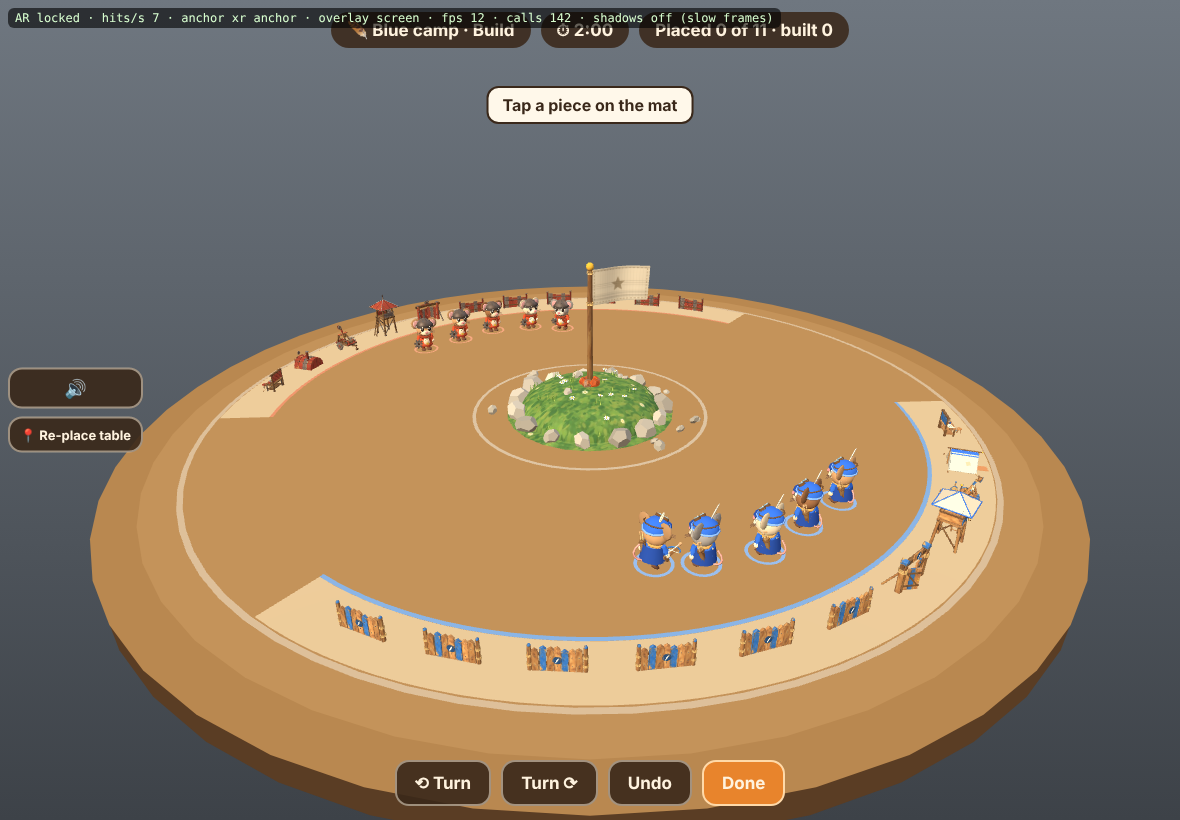
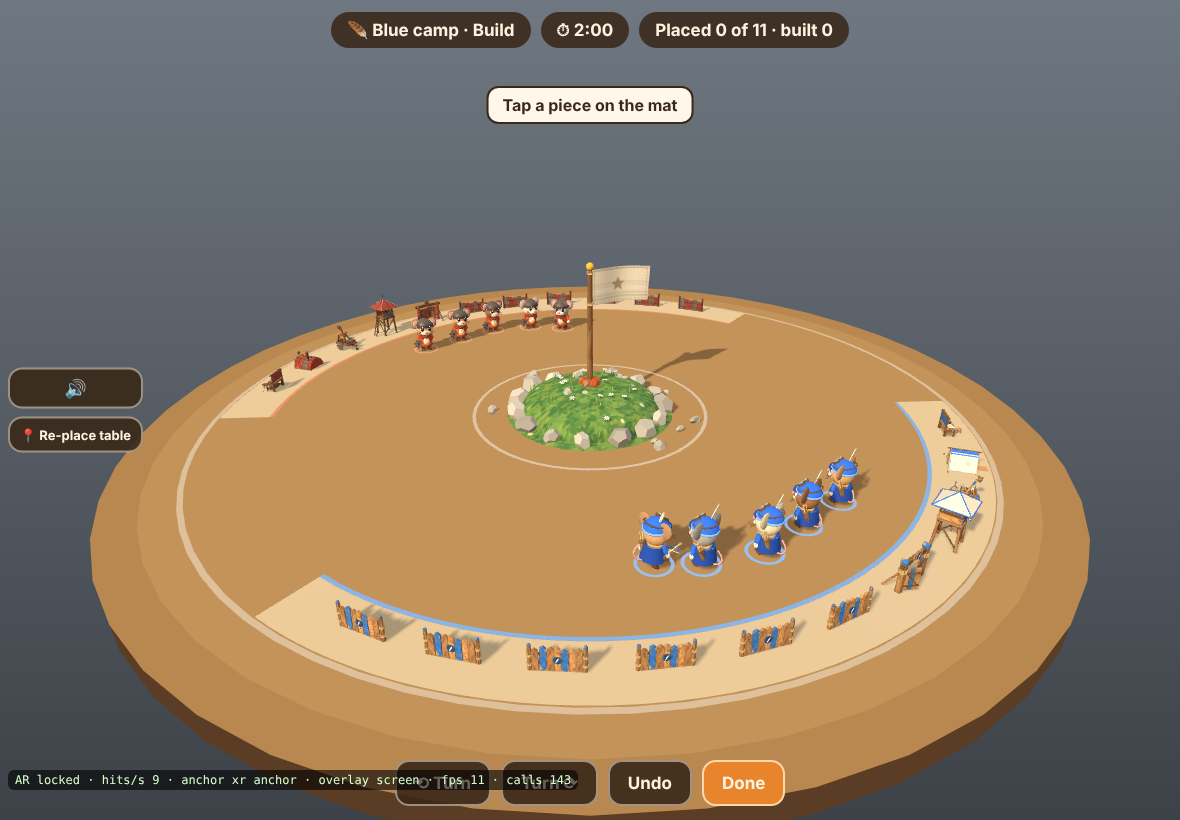
AR notes; bot camp fitted to a card layout's zone; camera behind your own camp; Table mode panel at the edge nearest the far camp
Claude-Session: https://claude.ai/code/session_0171oc5wTsPoimaja7RRfUcs

diff --git a/games/sofa-siege/game.js b/games/sofa-siege/game.js
@@ -66,8 +66,9 @@ function check(side,kind,x,z,rot){
   var hl=hillAt(),L=SG.layout,box={kind:kind,x:x,z:z,rot:rot};if(boxDist(box,hl.x,hl.z)<ZONE.rMin)return {ok:false,code:'hill',text:REASON.hill};
   if(L.mound&&boxDist(box,L.mound.x,L.mound.z)<L.mound.r+.06)return {ok:false,code:'hill',text:'Not on the hill mound'};
   var cs=corners(kind,x,z,rot),i;
-  for(i=0;i<4;i++){var lc=toCamp(side,cs[i][0],cs[i][1]),r=Math.sqrt(lc[0]*lc[0]+lc[1]*lc[1]),a=Math.abs(Math.atan2(lc[0],lc[1]));if(r>ZONE.rMax||a>ZONE.half)return {ok:false,code:'third',text:REASON.third};
-    if(L.custom&&(dist(cs[i][0],cs[i][1],0,0)>2.78||campAt(cs[i][0],cs[i][1])!==side))return {ok:false,code:'third',text:REASON.third};}
+  for(i=0;i<4;i++){var lc=toCamp(side,cs[i][0],cs[i][1]),r=Math.sqrt(lc[0]*lc[0]+lc[1]*lc[1]),a=Math.abs(Math.atan2(lc[0],lc[1]));if(!L.custom&&(r>ZONE.rMax||a>ZONE.half))return {ok:false,code:'third',text:REASON.third};
+    /* on a table laid out by cards a camp's zone is the ground round its own base: within 2.15 units of it, on the table, and nearer to it than to the other base */
+    if(L.custom&&(dist(cs[i][0],cs[i][1],0,0)>2.78||campAt(cs[i][0],cs[i][1])!==side||dist(cs[i][0],cs[i][1],baseOf(side).x,baseOf(side).z)>2.15))return {ok:false,code:'third',text:REASON.third};}
   for(i=0;i<SG.pieces.length;i++)if(overlap({kind:kind,x:x,z:z,rot:rot},SG.pieces[i]))return {ok:false,code:'overlap',text:REASON.overlap};
   return {ok:true,code:'',text:''};}
 SG.check=function(kind,x,z,rot,side){return check(side||0,kind,x,z,rot);};
@@ -143,7 +144,7 @@ SG.start=function(team,opts){
       var dl=dist(o[0],o[1],w[0],w[1])||1,pk=[w[0]+(o[0]-w[0])/dl*.39,w[1]+(o[1]-w[1])/dl*.39];side.kit.push({kind:kind,a:a,x:w[0],z:w[1],px:pk[0],pz:pk[1],used:false,picked:false});});
     for(var i=0;i<5;i++){var h=w2(s,(i-2)*.42,2.3-Math.abs(i-2)*.1);SG.mice.push({side:s,i:i,state:'idle',x:h[0],z:h[1],rot:phiOf(s)+PI,tx:h[0],tz:h[1],hx:h[0],hz:h[1],job:0,part:-1,t:0,wait:.5+i*.4,speed:0,
       slack:.3,q:0,asked:-9,path:null,pi:0,pver:-1,ptx:0,ptz:0,cd:1+i*.5,act:0,moved:0,goal:false,daze:false});}}
-  SG.kit=SG.sides[0].kit;viewStart();ui();};
+  SG.kit=SG.sides[0].kit;fitPreset(0);fitPreset(1);viewStart();ui();};
 SG.auto=function(side,level){var s=SG.sides[side];if(!s)return;s.bot=true;s.human=false;if(LEVELS[level])s.level=level;s.sel=-1;ui();};
 SG.reset=function(){viewClear();SG.phase='start';SG.pieces=[];SG.mice=[];SG.marbles=[];SG.corks=[];SG.pops=[];SG.sides=[];SG.kit=[];ui();};
 function say(code,text,bad,s){var side=SG.sides[s||0];if(side)side.msg={code:code,text:text,t:bad?2.2:2.6,bad:!!bad};}
@@ -180,7 +181,13 @@ SG.undo=function(s){
 /* one player: Done ends the build step. Two players: each says ready, and the build ends when both have. */
 SG.done=function(s){if(SG.phase!=='build')return;if(SG.mode!=='table'){finishBuild();return;}var side=SG.sides[s||0];side.ready=!side.ready;side.sel=-1;say('ready',side.ready?'Ready! Waiting for the other camp':'Not ready yet',false,s||0);ui();if(SG.sides[0].ready&&SG.sides[1].ready)finishBuild();};
 /* a tidy camp from a preset; used by the bot, by demos and by tests */
-function layoutSpot(s,L,i){var q=LAYOUTS[L][i],w=w2(s,Math.sin(q[1])*q[0],Math.cos(q[1])*q[0]);return [w[0],w[1],q[1]+q[2]+phiOf(s)];}
+function layoutSpot(s,L,i){var q=LAYOUTS[L][i],f=SG.sides[s].fit||{k:1,da:0,sh:0},a=q[1]+f.da,d=q[0]*f.k,w=w2(s,Math.sin(a)*d,Math.cos(a)*d-f.sh);return [w[0],w[1],a+q[2]+phiOf(s)];}
+/* On an unusual table the preset camp is turned and squeezed a little until as many of its pieces as possible fit the camp's zone, so the camp keeps its shape. */
+function fitPreset(s){var side=SG.sides[s],best=null,bn=-1,keep=SG.pieces;side.fit=null;if(!SG.layout.custom)return;
+  [0,.2,.4,.6,.8,-.2].forEach(function(sh){[1,.9,.8].forEach(function(k){[0,.12,-.12,.24,-.24,.36,-.36,.5,-.5].forEach(function(da){side.fit={k:k,da:da,sh:sh};SG.pieces=keep.slice();var n=0;
+    for(var i=0;i<KIT.length;i++){var q=layoutSpot(s,side.layout,i);if(check(s,KIT[i],q[0],q[1],q[2]).ok){n+=KIT[i]==='lobber'?2:1;SG.pieces.push({kind:KIT[i],x:q[0],z:q[1],rot:q[2],side:s});}}
+    if(n>bn){bn=n;best={k:k,da:da,sh:sh};}});});});
+  SG.pieces=keep;side.fit=best;}
 function botPlace(s,i){var side=SG.sides[s],q=layoutSpot(s,side.layout,i),r=place(s,i,q[0],q[1],q[2]);
   var wide=SG.layout.custom,nt=wide?400:60;   /* on an unusual table the preset spot may not fit: look anywhere in the camp's zone */
   for(var t=0;t<nt&&!r.ok;t++){var a=(rand()-.5)*2*(ZONE.half-(wide?.05:.25)),d=wide?.5+rand()*2.2:1.3+rand()*1.2,w=w2(s,Math.sin(a)*d,Math.cos(a)*d);r=place(s,i,w[0],w[1],a+PI+phiOf(s)+(wide&&t>200?(rand()-.5)*2:0));}
@@ -427,7 +434,7 @@ SG.step=function(dt){SG.acc+=dt;var n=0;while(SG.acc>=STEP-1e-9){tick(STEP);SG.a
 /* true if a mouse stands inside a wall or gate that still blocks it (used by the tests) */
 SG.inWall=function(){var bad=0;SG.mice.forEach(function(m){SG.pieces.forEach(function(p){if((p.kind!=='wall'&&p.kind!=='gate')||!p.built||!blocks(p))return;if(solidAt(p,m.side,m.x,m.z,0))bad++;});});return bad;};
 SG.debug={knock:function(pieceId,partId){var p=pieceById(pieceId);if(!p)return false;for(var i=0;i<p.ps.length;i++)if(p.ps[i].id===partId){var r=knock(p,i,p.side?1:-1,p.side?-1:1,'debug');fixGrid();return r;}return false;},
-  dizzy:function(s,i){var m=SG.mice[s*5+i];return m?dizzy(m):false;},piece:pieceById,blocks:function(id){return blocks(pieceById(id));},crewSpot:function(s){var l=lobberOf(s);return l?crewSpot(l):null;},crewReady:crewReady,isOpen:isOpen};
+  dizzy:function(s,i){var m=SG.mice[s*5+i];return m?dizzy(m):false;},piece:pieceById,layoutSpot:function(s,i){return layoutSpot(s,SG.sides[s].layout,i);},blocks:function(id){return blocks(pieceById(id));},crewSpot:function(s){var l=lobberOf(s);return l?crewSpot(l):null;},crewReady:crewReady,isOpen:isOpen};
 
 /* ================= sound: small synthesised noises, WebAudio only =================
    Nothing plays until the first tap (iOS needs that). The game never waits for sound, and runs the same without it. */
@@ -464,7 +471,7 @@ function viewStart(){if(!V.on)return;
   V.mats[0].material.color.set(SG.sides[0].team==='red'?0x93381f:0x2a55a8);V.mats[1].material.color.set(SG.sides[1].team==='red'?0x93381f:0x2a55a8);
   hill.userData.sA.set(SS.PAL.red.main);hill.userData.sB.set(SS.PAL.blue.main);SS.setHill(hill,.5);
   var hl=hillAt(),md=SG.layout.mound;hill.position.set(hl.x,0,hl.z);V.mound.visible=!!md;if(md){V.mound.position.set(md.x,0,md.z);V.mound.scale.set(md.r/.36,1,md.r/.36);}
-  for(var s=0;s<2;s++){var o=w2(s,0,0),tidy=dist(o[0],o[1],0,0)<.3;V.matG[s].position.set(o[0],0,o[1]);V.matG[s].rotation.y=phiOf(s);V.matG[s].visible=tidy;GH[s].zoneG.position.set(o[0],0,o[1]);GH[s].zoneG.rotation.y=phiOf(s);
+  for(var s=0;s<2;s++){var o=w2(s,0,0),tidy=dist(o[0],o[1],0,0)<.3;V.matG[s].position.set(o[0],0,o[1]);V.matG[s].rotation.y=phiOf(s);V.matG[s].visible=tidy;GH[s].zoneG.position.set(o[0],0,o[1]);GH[s].zoneG.rotation.y=phiOf(s);GH[s].zoneG.visible=!SG.layout.custom;GH[s].disc.position.set(baseOf(s).x,.005,baseOf(s).z);
     V.pads[s].forEach(function(pd,i){var k=SG.sides[s].kit[i];pd.visible=!tidy;pd.position.set(k.x,.006,k.z);});}}
 function ghostOf(kind,team,m){var g=SS.piece(kind,team);g.scale.setScalar(PS);g.traverse(function(o){if(o.isMesh){o.material=m;o.castShadow=false;o.receiveShadow=false;}});return g;}
 function tint(g,m){g.traverse(function(o){if(o.isMesh)o.material=m;});}
@@ -508,21 +515,21 @@ function syncPieces(){
   for(var r=nr;r<V.rings.length;r++)V.rings[r].visible=false;}
 function syncPops(){var pl=E('pops');if(!pl)return;var seen={},table=SG.mode==='table';V.popEls=V.popEls||{};
   function show(id,cls,text,x,z,y,side,op){seen[id]=1;var el=V.popEls[id];if(!el){el=V.popEls[id]=document.createElement('div');el.className=cls;el.textContent=text;pl.appendChild(el);}
-    var q=SG.screen(x,z,y);el.style.left=q.x+'px';el.style.top=q.y+'px';el.style.opacity=op;el.style.transform=table&&side===1?'translate(-50%,0) rotate(180deg)':'translate(-50%,-100%)';}
+    var q=SG.screen(x,z,y);el.style.left=q.x+'px';el.style.top=q.y+'px';el.style.opacity=op;var eg=table&&side===1?(SG.sides[1].edge||'top'):'';el.style.transform=eg==='top'?'translate(-50%,0) rotate(180deg)':(eg==='left'?'translate(0,-50%) rotate(90deg)':(eg==='right'?'translate(-100%,-50%) rotate(-90deg)':'translate(-50%,-100%)'));}
   SG.pops.forEach(function(q){show(q.id,'pop'+(q.good?' good':'')+(q.text==='?'?' ask':''),q.text,q.x,q.z,q.y+q.t*.35,q.side,q.t>.9?Math.max(0,1-(q.t-.9)/.4):1);});
   /* a hammer over every piece that is being mended, so mending shows even when the mouse is behind it */
   SG.pieces.forEach(function(p){if(!p.built)return;var busy=false;p.ps.forEach(function(q){if(q.mender>=0&&q.st!=='on')busy=true;});if(busy)show('m'+p.id,'pop icon','🔨',p.x,p.z,TALL[p.kind]+.18+.04*Math.sin(SG.clock*6),p.side,1);});
   for(var id in V.popEls)if(!seen[id]){pl.removeChild(V.popEls[id]);delete V.popEls[id];}}
 function syncAll(){
   if(!V.on)return;var i,ph=SG.phase;
-  if(!SG.sides.length){GH.forEach(function(g){g.zone.visible=g.sel.visible=g.ring.visible=g.arc.visible=g.land.visible=g.order.visible=false;if(g.obj)g.obj.visible=false;});for(i=0;i<V.rings.length;i++)V.rings[i].visible=false;return;}
+  if(!SG.sides.length){GH.forEach(function(g){g.zone.visible=g.disc.visible=g.sel.visible=g.ring.visible=g.arc.visible=g.land.visible=g.order.visible=false;if(g.obj)g.obj.visible=false;});for(i=0;i<V.rings.length;i++)V.rings[i].visible=false;return;}
   SG.mice.forEach(function(m,i){var o=V.mice[i];if(!o)return;var st=m.state,pose=POSE[st]||'idle',r2=m.x*m.x+m.z*m.z;
     if(m.act>0&&(st==='hold'||st==='go'||st==='idle'))pose=SG.sides[m.side].team==='blue'?'aim':'hammer';if(m.q>0)pose='idle';
     o.position.set(m.x,hy(m.x,m.z)*(st==='dizzy'?.7:1),m.z);o.rotation.y=m.rot;SS.pose(o,pose,SG.clock*(st==='wander'?.6:1)+i*.37);
     if(pose==='hammer'){var hp=((SG.clock+i*.37)*1.7)%1;if(hp<o.userData.hp)snd('tap');o.userData.hp=hp;}});
   for(var s=0;s<2;s++)SG.sides[s].kit.forEach(function(k,i){var o=V.slots[s][i];if(!o)return;o.visible=!k.picked&&ph==='build'||(!k.used);var sel=i===SG.sides[s].sel;o.position.y=sel?.07+.02*Math.sin(SG.clock*5):.012;o.scale.setScalar(MAT.scale*(k.used&&!k.picked?.8:1));});
   syncPieces();syncPops();
-  SG.sides.forEach(function(side,s){var G=GH[s],showGhost=ph==='build'&&side.sel>=0&&side.human;G.zone.visible=showGhost;G.sel.visible=showGhost;
+  SG.sides.forEach(function(side,s){var G=GH[s],showGhost=ph==='build'&&side.sel>=0&&side.human;G.zone.visible=showGhost;G.disc.visible=showGhost&&SG.layout.custom;G.sel.visible=showGhost;
     if(showGhost){var kind=side.kit[side.sel].kind,g=side.ghost;G.sel.position.set(side.kit[side.sel].x,.012,side.kit[side.sel].z);
       if(G.kind!==kind+side.team){if(G.obj)S.remove(G.obj);G.obj=ghostOf(kind,side.team,GM.ok);S.add(G.obj);G.kind=kind+side.team;G.obj.userData.ok=true;}
       if(G.obj.userData.ok!==g.ok){tint(G.obj,g.ok?GM.ok:GM.bad);G.obj.userData.ok=g.ok;}
@@ -565,7 +572,9 @@ function lineFor(s){var ph=SG.phase,a=SG.sides[s],n=0;SG.pieces.forEach(function
   else if(ph==='fight'&&a.human){var blk=SG.lobberBlock(s);hint=a.tool==='lobber'?({none:'You have no lobber',broken:'The lobber is broken. Mend it first',crew:'The lobber needs a mouse beside it',winding:'Winding the lobber…','':'Drag back and let go to fire'})[blk]:(a.tool==='mend'?'Tap a damaged piece to mend it':(a.order?'':'Tap the hill to send your squad'));}
   var call=SG.callout.t>0&&ph!=='mend';return {text:call?SG.callout.text:(a.msg.t>0?a.msg.text:hint),bad:a.msg.t>0&&a.msg.bad&&!call};}
 function meterText(side){return (side.team==='red'?'⚙ Red ':'🪶 Blue ')+Math.round(side.score);}
-function hudTable(){var ph=SG.phase,fight=ph==='fight'||ph==='mend'||ph==='count';
+/* which screen edge the far player's panel sits on: the one nearest their camp (blue's camp is always at the bottom) */
+function farEdge(){var b=baseOf(0),r=baseOf(1),bn=Math.sqrt(b.x*b.x+b.z*b.z),ux=bn>.2?-b.x/bn:0,uz=bn>.2?-b.z/bn:-1,up=r.x*ux+r.z*uz,right=r.x*(-uz)+r.z*ux;return up>=Math.abs(right)*.8?'top':(right>0?'right':'left');}
+function hudTable(){var ph=SG.phase,fight=ph==='fight'||ph==='mend'||ph==='count',eg=farEdge();if(SG.sides[1].edge!==eg){SG.sides[1].edge=eg;E('pp1').className='pp '+(eg==='top'?'flip':eg);}
   for(var s=0;s<2;s++){var side=SG.sides[s],el=E('pp'+s),ln=lineFor(s),n=0,built=0;SG.pieces.forEach(function(p){if(p.side===s){n++;if(p.built)built++;}});
     var head=ph==='build'?(side.team==='red'?'⚙ Red':'🪶 Blue')+' · ⏱ '+fmt(SG.time)+' · '+n+' of '+KIT.length:meterText(side)+' · '+(ph==='over'?'over':(ph==='mend'?'break ':'R'+SG.round+' ')+fmt(ph==='count'?CONFIG.round:SG.time));
     var key=[ph,head,ln.text,ln.bad,side.tool,side.ready,Math.round(side.score),Math.ceil(SG.time),SG.winner].join('|');if(el.getAttribute('data-k')===key)continue;el.setAttribute('data-k',key);
@@ -622,7 +631,7 @@ function initView(){
     for(var pi=0;pi<KIT.length;pi++){var pd=new THREE.Mesh(V.padGeo||(V.padGeo=new THREE.CircleGeometry(.2,20)),V.padMat||(V.padMat=M(0x8f7044,1)));pd.rotation.x=-PI/2;pd.visible=false;pd.receiveShadow=true;S.add(pd);V.pads[s].push(pd);}}
   V.mound=new THREE.Mesh(new THREE.SphereGeometry(.36,16,6,0,PI*2,0,PI/2),M(0x6f9440,.95));V.mound.scale.y=.5;V.mound.castShadow=true;V.mound.receiveShadow=true;V.mound.visible=false;S.add(V.mound);
   function flat(geo,col,op){var o=new THREE.Mesh(geo,new THREE.MeshBasicMaterial({color:col,transparent:true,opacity:op,depthWrite:false}));o.rotation.x=-PI/2;o.visible=false;S.add(o);return o;}
-  for(s=0;s<2;s++){var G=GH[s];G.zone=flat(new THREE.RingGeometry(.6,ZONE.rMax,48,1,-PI/2-ZONE.half,ZONE.half*2),s?0xffc0a8:0x9fd0ff,.13);G.zone.position.y=.005;G.zoneG=new THREE.Group();S.add(G.zoneG);S.remove(G.zone);G.zoneG.add(G.zone);
+  for(s=0;s<2;s++){var G=GH[s];G.zone=flat(new THREE.RingGeometry(.6,ZONE.rMax,48,1,-PI/2-ZONE.half,ZONE.half*2),s?0xffc0a8:0x9fd0ff,.13);G.zone.position.y=.005;G.zoneG=new THREE.Group();S.add(G.zoneG);S.remove(G.zone);G.zoneG.add(G.zone);G.disc=flat(new THREE.CircleGeometry(2.15,40),s?0xffc0a8:0x9fd0ff,.12);
     G.ring=flat(new THREE.RingGeometry(.92,1,40),0x8fd0ff,.85);G.ring.position.y=.008;G.sel=flat(new THREE.RingGeometry(.2,.24,28),0xffd9a8,.95);
     G.land=flat(new THREE.RingGeometry(.86,1,36),0xfff3d0,.9);G.order=flat(new THREE.RingGeometry(.16,.2,28),0xfff3d0,.9);G.arc=SS.fx.arc(16);G.arc.visible=false;S.add(G.arc);}
   V.ringGeo=new THREE.RingGeometry(.105,.128,22);V.ringMat={blue:new THREE.MeshBasicMaterial({color:0x4f8dff,transparent:true,opacity:.9,depthWrite:false}),red:new THREE.MeshBasicMaterial({color:0xff6a3c,transparent:true,opacity:.9,depthWrite:false})};
@@ -637,9 +646,12 @@ function initView(){
   V.on=true;}
 /* three views: the whole table (both mats must fit, landscape or portrait), my camp, the hill */
 function camTarget(){var a=W/H,t=Math.tan(20*PI/180),v=SG.cam||0,need=[3.65,2.9,1.9][v],dH=[7.1,5.2,3.9][v],d=Math.max(need/(t*a),dH),el=v===0?(a<1?.95:.72):(v===1?.7:.62),lz=[.25,1.75,.1][v];
-  return [0,Math.sin(el)*d,lz+Math.cos(el)*d,0,-.1,lz];}
+  /* the camera stands behind your own camp and looks across the table */
+  var b=baseOf(0),bl=Math.sqrt(b.x*b.x+b.z*b.z),dx=bl>.2?b.x/bl:0,dz=bl>.2?b.z/bl:1,h=v===2?hillAt():{x:0,z:0};if(v===1)lz=Math.max(.9,bl-.15);if(v===2)lz=0;
+  return [h.x+dx*(lz+Math.cos(el)*d),Math.sin(el)*d,h.z+dz*(lz+Math.cos(el)*d),h.x+dx*lz,-.1,h.z+dz*lz];}
 function moveCamera(){
-  if(SG.mode==='table'&&SG.phase!=='start'){var t=Math.tan(10*PI/180),hh=Math.max(120,H-128),d=Math.max(3.38*H/hh/t,3.38/(t*W/H));var tl=(SG.tilt||0)*PI/180;C.fov=20;C.aspect=W/H;C.up.set(0,0,-1);C.position.set(0,d*Math.cos(tl),d*Math.sin(tl));C.lookAt(0,0,0);C.near=1;C.far=d+12;C.updateProjectionMatrix();C.updateMatrixWorld();SCN.fog.near=d+4;SCN.fog.far=d+40;camNow=null;return;}
+  if(SG.mode==='table'&&SG.phase!=='start'){var t=Math.tan(10*PI/180),hh=Math.max(120,H-128),d=Math.max(3.38*H/hh/t,3.38/(t*W/H));var tl=(SG.tilt||0)*PI/180;var bb=baseOf(0),bn=Math.sqrt(bb.x*bb.x+bb.z*bb.z),ux=bn>.2?bb.x/bn:0,uz=bn>.2?bb.z/bn:1;   /* blue's camp is at the bottom edge of the screen */
+    C.fov=20;C.aspect=W/H;C.up.set(-ux,0,-uz);C.position.set(ux*d*Math.sin(tl),d*Math.cos(tl),uz*d*Math.sin(tl));C.lookAt(0,0,0);C.near=1;C.far=d+12;C.updateProjectionMatrix();C.updateMatrixWorld();SCN.fog.near=d+4;SCN.fog.far=d+40;camNow=null;return;}
   if(C.fov!==40){C.fov=40;C.up.set(0,1,0);C.near=.1;C.far=60;SCN.fog.near=9;SCN.fog.far=22;}
   var q=camTarget(),i;if(!camNow||SG.camSnap){camNow=q.slice();SG.camSnap=false;}else for(i=0;i<6;i++)camNow[i]+=(q[i]-camNow[i])*.14;
   C.aspect=W/H;C.position.set(camNow[0],camNow[1],camNow[2]);C.lookAt(camNow[3],camNow[4],camNow[5]);C.updateProjectionMatrix();C.updateMatrixWorld();}

diff --git a/games/sofa-siege/tests/layout-test.js b/games/sofa-siege/tests/layout-test.js
@@ -70,7 +70,11 @@ const run = async () => {
   let q = await slot(1, 0); await p.mouse.click(q.x, q.y); q = await pt(1, 0, -.5); await p.mouse.click(q.x, q.y);
   q = await slot(0, 0); await p.mouse.click(q.x, q.y); q = await pt(0, 0, -.5); await p.mouse.click(q.x, q.y);
   ok('Table mode from a layout: each player picks from their own tray and builds by their own base', await ev(() => SG.pieces.length === 2 && SG.pieces[0].side === 1 && SG.pieces[1].side === 0 && SG.pieces[0].x > 0 && SG.pieces[1].x < 0), JSON.stringify(await ev(() => [SG.pieces, SG.sides[0].msg, SG.sides[1].msg])));
-  ok('the hill and both camps are drawn where the layout says', await ev(() => { const r = SG.screen(SG.layout.bases.red.x, SG.layout.bases.red.z), bl = SG.screen(SG.layout.bases.blue.x, SG.layout.bases.blue.z); return r.x > bl.x + 200 && Math.abs(r.y - bl.y) < 30; }));
+  ok('the hill and both camps are drawn where the layout says', await ev(() => { const r = SG.screen(SG.layout.bases.red.x, SG.layout.bases.red.z), bl = SG.screen(SG.layout.bases.blue.x, SG.layout.bases.blue.z); return bl.y > r.y + 200 && Math.abs(r.x - bl.x) < 30; }));   /* blue's camp is turned to the bottom edge */
+
+  ok('with red\'s camp to blue\'s right, red\'s panel sits on the right edge, turned to face that player', await ev((j) => { SG.applyLayout(j); SG.start('blue', { mode: 'table', seed: 5 }); SG.render(); const c = document.getElementById('pp1'), r = c.getBoundingClientRect(); return SG.sides[1].edge === 'right' && c.className === 'pp right' && r.left > innerWidth - 90 && r.height > innerHeight * .9; }, rec({ blue_base: [0, -304, 0], red_base: [304, 0, 90], capture_flag: [0, 0, 0] })), JSON.stringify(await ev(() => [SG.sides[1].edge, document.getElementById('pp1').className, document.getElementById('pp1').getBoundingClientRect()])));
+  ok('the one-player camera stands behind your own camp', await ev((j) => { SG.applyLayout(j); SG.start('blue', { seed: 5 }); SG.camSnap = true; SG.render(); const b = SG.layout.bases.blue, r = SG.layout.bases.red, sb = SG.screen(b.x, b.z), sr = SG.screen(r.x, r.z); return sb.y > sr.y + 100 && Math.abs(sb.x - sr.x) < 60; }, GOOD['camps east and west']));
+  ok('on a custom layout the bot keeps its preset camp shape (two thirds or more of the pieces at their fitted preset spots)', await ev((j) => { SG.applyLayout(j); SG.start('blue', { seed: 77 }); SG.auto(0, 'normal'); SG.skipBuild(); let at = 0; SG.pieces.forEach((q) => { const s = SG.debug.layoutSpot(q.side, q.slot); if (Math.hypot(q.x - s[0], q.z - s[1]) < .3) at++; }); return at >= 14 && SG.pieces.length >= 20 ? 'x' : at + ' of ' + SG.pieces.length; }, GOOD['camps not opposite, flag off-centre']) === 'x');
 
   /* the address form */
   const b64 = Buffer.from(JSON.stringify(GOOD['camps not opposite, flag off-centre'])).toString('base64');

diff --git a/games/sofa-siege/index.html b/games/sofa-siege/index.html
@@ -18,11 +18,13 @@ canvas{display:block;touch-action:none}
 #ui{position:fixed;left:0;top:0;right:0;bottom:0;pointer-events:none}#ui .btn,#ui input{pointer-events:auto}.cover{pointer-events:auto}.bar{pointer-events:none}
 body.ar{background:transparent}body.ar #ui{pointer-events:auto;touch-action:none}body.ar #tag,body.ar #bCam{display:none!important}
 #arbar{display:none;align-items:center}
-#dev{position:fixed;left:8px;top:8px;font:12px ui-monospace,Menlo,monospace;background:rgba(0,0,0,.6);color:#d8ffd0;padding:3px 7px;border-radius:6px;display:none;pointer-events:none;white-space:pre}
+#dev{position:fixed;left:8px;bottom:30px;font:12px ui-monospace,Menlo,monospace;background:rgba(0,0,0,.6);color:#d8ffd0;padding:3px 7px;border-radius:6px;display:none;pointer-events:none;white-space:pre}
 #bCam{position:fixed;right:12px;top:12px;display:none;font-size:14px;padding:8px 12px}
 #side{position:fixed;left:8px;top:50%;transform:translateY(-50%);display:none;flex-direction:column;gap:8px}#side .btn{font-size:18px;padding:8px 10px}#bPause2{display:none}
 .pp{position:fixed;left:0;right:0;bottom:0;height:70px;display:none;align-items:center;justify-content:space-between;gap:8px;padding:0 10px;box-sizing:border-box;pointer-events:none}
 .pp.flip{bottom:auto;top:0;transform:rotate(180deg)}
+.pp.left{left:0;top:0;bottom:auto;right:auto;width:100vh;transform-origin:top left;transform:translateX(70px) rotate(90deg)}
+.pp.right{left:100vw;top:100vh;bottom:auto;right:auto;width:100vh;transform-origin:top left;transform:translateX(-70px) rotate(-90deg)}
 .pp .meter{min-width:210px;font-size:15px}.pp .pbtns{display:flex;gap:6px;pointer-events:auto}.pp .btn{font-size:16px;padding:10px 13px;touch-action:none}
 .pp .psay{flex:1;text-align:center;background:#fff8ea;color:#3a281a;border:2px solid #3a281a;border-radius:12px;padding:6px 10px;font-weight:700;font-size:15px;max-width:38vw;margin:0 auto}
 .pp .psay.bad{background:#ffe1d6;border-color:#b3261e;color:#7a1a12}

diff --git a/games/sofa-siege/tests/ar-test.js b/games/sofa-siege/tests/ar-test.js
@@ -41,6 +41,7 @@ const run = async () => {
   ok('with immersive-ar the title offers "Play on my table (AR)"', await ev(() => SG.ar.supported === true && getComputedStyle(document.getElementById('bAR')).display !== 'none' && /Play on my table \(AR\)/.test(document.getElementById('bAR').textContent) && getComputedStyle(document.getElementById('arNote')).display === 'none'));
   await ev(() => { __XRF.cam = { pos: [0, 0, 0], target: [0, 0.3, -1] }; }); /* looking up, away from the table */
   await p.click('#bAR'); await p.waitForFunction('SG.ar.on', null, { timeout: 10000 }); await frames(4);
+  await ev(() => { SG.noGuard = true; });   /* this machine draws slowly; the guard is tested on its own below */
   ok('the session starts, with hit-test asked for and the dom overlay given', await ev(() => SG.ar.on && SG.ar.state === 'find' && __XRF.sessions === 1 && __XRF.session.init.requiredFeatures.indexOf('hit-test') >= 0 && __XRF.session.init.domOverlay.root === document.getElementById('ui') && SG.ar.overlay === 'screen'));
   ok('the practice room and its table top are not drawn in AR; the page is see-through', await ev(() => document.body.className === 'ar' && document.getElementById('start').style.display === 'none' && getComputedStyle(document.getElementById('bCam')).display === 'none'));
   ok('looking away from the table: no reticle, and the bar says to find it', await ev(() => SG.ar.reticle === false && /Find your table/.test(document.getElementById('arText').textContent)));

diff --git a/games/sofa-siege/AR_NOTES.md b/games/sofa-siege/AR_NOTES.md
@@ -1,0 +1,70 @@
+# Round Table Kingdom: AR mode v0 (19 Nov 2026)
+
+**Status in one line: the game's own AR logic passes its tests against a fake WebXR on this machine. NOTHING here has run in HelloXR or on a real iPad.**
+
+The practice table is still the default. AR starts only from the title button "Play on my table (AR)", which shows only when `navigator.xr.isSessionSupported('immersive-ar')` says yes. Everywhere else (Safari) the title says "AR needs the HelloXR app. Practice table works here."
+
+## How it works
+
+- **Session:** `immersive-ar` with `hit-test` required, `dom-overlay` and `anchors` optional. The overlay root is `#ui`, which holds every button and text.
+- **Find your table:** a white ring follows the hit test from the middle of the screen (flat tops only). Tap to put the table centre there. Drag sideways or twist with two fingers to turn it; the slider or a pinch sets 60 to 140 cm across. 100 cm is 160 mm per game unit. Then "Lock table".
+- **After the lock:** the whole game hangs under one group at that place, turn and size. If the device makes an XR anchor the table follows it; otherwise the pose stays fixed. The dev line says which.
+- **What is drawn:** a faint ring for the table edge, the cloth mats, the hill and the pieces. No table top and no room. Shadows fall on an invisible plane at table height.
+- **Touch:** a tap becomes a ray from the XR camera into the table plane, so pick, place, send squad, lobber drag and mend are the same code as on the practice table. Camera buttons are hidden.
+- **Re-place table** (left side, during build, at "Camp ready", or when paused): unlocks the table; the match waits and keeps everything.
+- **Tracking lost:** no camera pose for over 1 second pauses the match and says so; it goes on when the pose returns.
+- **Card layout:** if a locked card layout is saved on the device, it is offered right after the lock.
+- **Guard:** pixel ratio capped at 1.5, shadow map 1024. If frames stay over 40 ms for 3 seconds, shadows go off and the dev line says so once.
+- **`?dev=1`:** a small line with the session state, hit tests a second, frame rate, draw calls and the anchor kind.
+
+## Proven by the fake (tests/ar-test.js, 32 checks)
+
+- The page starts with no WebXR, with WebXR but no AR, and when the session refuses to start.
+- The session starts with the right features; the practice room is hidden.
+- The reticle appears only when the camera points at the fake table.
+- Tap places, drag turns, the buttons turn, the slider resizes within 60 to 140 cm, Lock locks.
+- With anchors offered the lock makes one; without, it keeps the fixed pose. Without dom-overlay the session still runs.
+- A piece picked and placed by screen taps lands within 3 mm of the tapped table spot, from three different camera poses. The screen points come from the fake's own camera maths, not from the game.
+- Tracking loss pauses and resumes. Re-place table moves the table and keeps the match.
+- A full bot match runs inside the session to a winner, with no stuck mouse.
+- A saved card layout is offered after the lock and used.
+- Leaving AR goes back to the title, and the practice table still plays.
+- No page errors.
+
+The fake is a small hand-written WebXR (`tests/ar-fake.js`): one flat disc for the table, a camera the test moves, perfect tracking. It is not the WebXRKit polyfill that Base Camp's tests use.
+
+## NOT TESTED on a real iPad (most of it)
+
+1. **Whether the session starts in HelloXR at all** with these features. Base Camp asks for `entityTypes: ['plane']` on its hit-test source; this asks for the default.
+2. **The dom overlay.** Base Camp's notes say HelloXR's polyfill "can start without wiring the overlay" and it connects the overlay itself. This build does NOT do that. If the buttons are missing in AR, that is why. There are no in-scene buttons as a fallback: without the overlay there is nothing to press.
+3. **Touches.** In AR the taps are read from the overlay root (`#ui`). Whether HelloXR delivers pointer events there, and whether a tap on a button also reaches the table, is unknown.
+4. **The camera picture behind the game.** The canvas is see-through and the page background is clear in AR. Whether HelloXR shows the camera behind it, or a black page, is unknown.
+5. **three.js r128's own XR code in HelloXR** (`renderer.xr.setSession`). Base Camp uses the same call, so this is the likeliest part to work.
+6. **Hit tests on a real table:** how fast a plane is found, whether the ring jitters, whether it lands on the floor through a glass table.
+7. **Scale and drift:** whether 100 cm really matches a 1 m table, and how far the game slides when you walk round. HelloXR's anchors are emulated in JavaScript and its origin jumps after sleep (Base Camp's notes), so expect the table to move after the iPad sleeps. Use Re-place table.
+8. **Tracking loss:** Base Camp's notes say HelloXR "sends no tracking state". If it keeps sending a stale pose, the 1-second rule will never fire.
+9. **Frame rate, heat and battery.** About 63,000 triangles and 170 draw calls; never measured on an A-series chip.
+10. **Shadows on the invisible plane** against a real table top: may look too dark, too faint, or float.
+11. **Sound** in the app's web view.
+12. **Portrait and landscape, and rotating the iPad mid-session.**
+13. **Two players in AR.** Not built. AR is one player against the robot.
+
+## What Harry should try, and what to look for
+
+Open the game in HelloXR with `?dev=1` on the end of the address.
+
+1. **Title.** Is there a "Play on my table (AR)" button? If not, note the small line under Play.
+2. **Press it.** Does the camera picture appear? Is the bar "Find your table" visible at the bottom? Read out the dev line (bottom left).
+3. **Point at the table.** Does a white ring appear on the table top? How long does it take? Does it sit on the table or on the floor?
+4. **Tap.** Does a faint table ring with a green hill appear where the white ring was?
+5. **Turn and size.** Drag sideways, twist with two fingers, move the slider. Set it so the faint ring matches your table's edge. What size did that take?
+6. **Lock table.** Do the mats, mice and build buttons appear? Does the dev line say `anchor xr anchor` or `anchor fixed pose`?
+7. **Build.** Tap a wall on the mat, then tap the table. Does the wall land under your finger? Try it from the other side of the table.
+8. **Walk round the table.** Does the camp stay put on the table, or slide? By about how much?
+9. **Fight.** Send squad to the hill, drag back for the lobber, mend. Do all three work by touch?
+10. **Cover the camera for two seconds.** Does it say "Tracking lost" and pause? Does it come back?
+11. **Lock the iPad for 10 seconds and unlock.** Where is the table now? Does Re-place table fix it?
+12. **Frame rate.** What does the dev line say for fps during a fight? Does it say "shadows off"?
+13. **Leave AR.** Does the title come back?
+
+For each step, a photo of the screen and the dev line text is the most useful thing to send back.

diff --git a/games/sofa-siege/README.md b/games/sofa-siege/README.md
@@ -26,3 +26,5 @@ How the record is read:
 `x = x_mm / 160`, `z = -y_mm / 160`, turn = `yaw_deg` (counter-clockwise from above), the same as `LockedPlacementStore.toTableUnits`.
 
 A layout is refused when: a needed card is missing; the flag is more than 2.1 units from the middle; a base is more than 2.75 units from the middle, nearer than 1.5 to the flag, or facing away from it; the bases are nearer than 2.4 to each other; the mound is off the table, on the flag hill, or on a base.
+
+On a card layout a camp's build zone is the ground within 2.15 units of its base, on the table, and nearer to its own base than to the other one. The bot fits its preset camp to that zone (turned and shifted a little) and only then looks for free spots.
